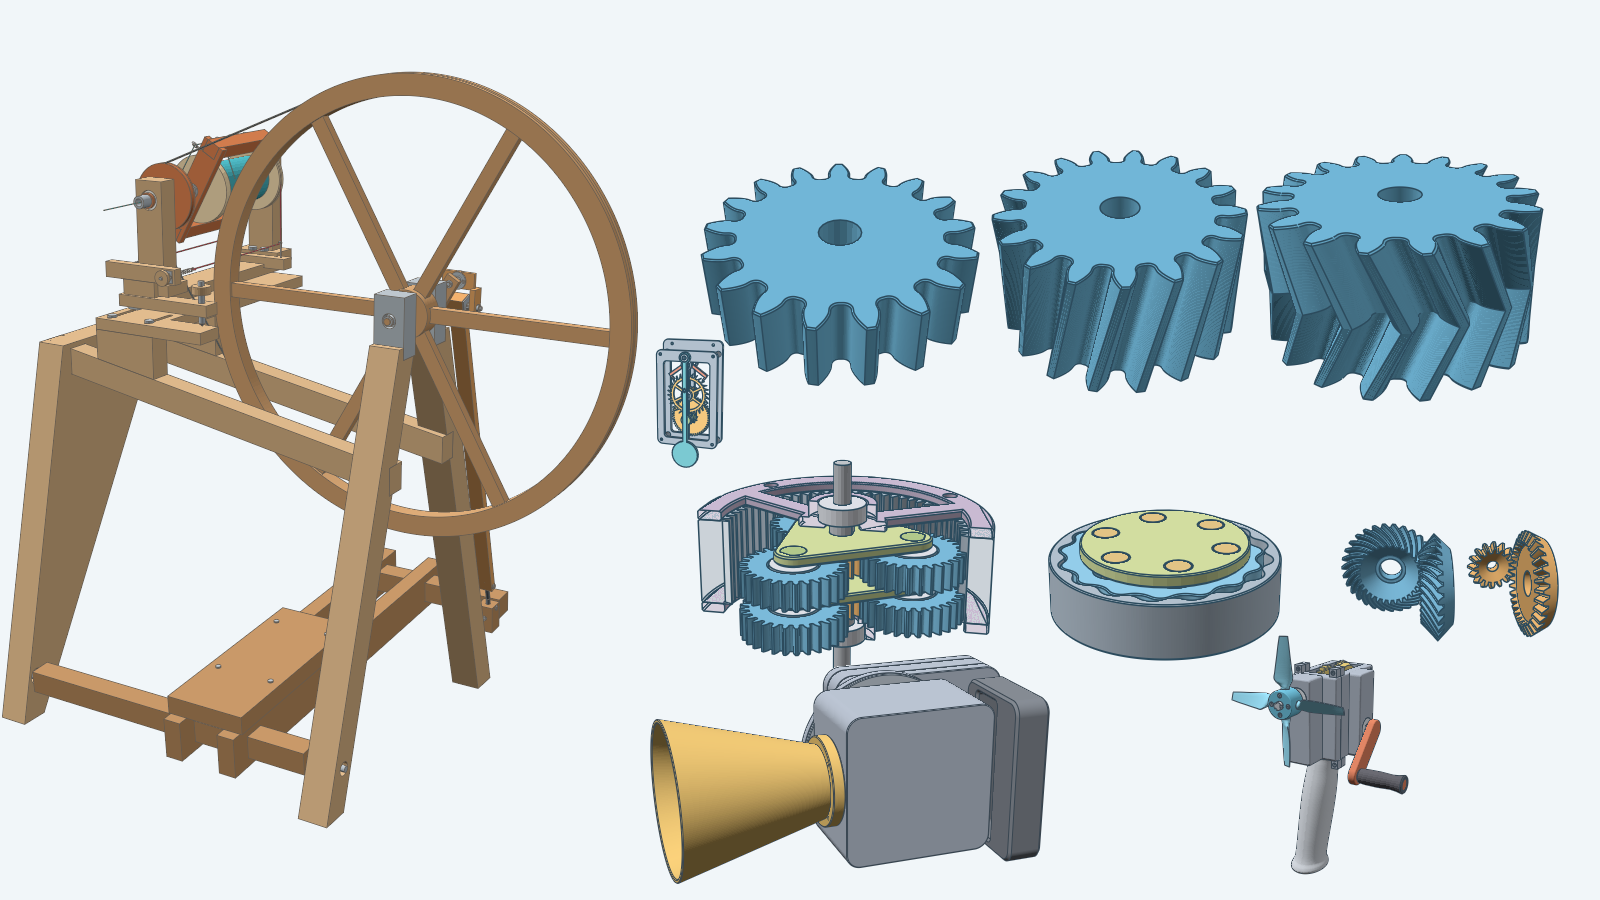
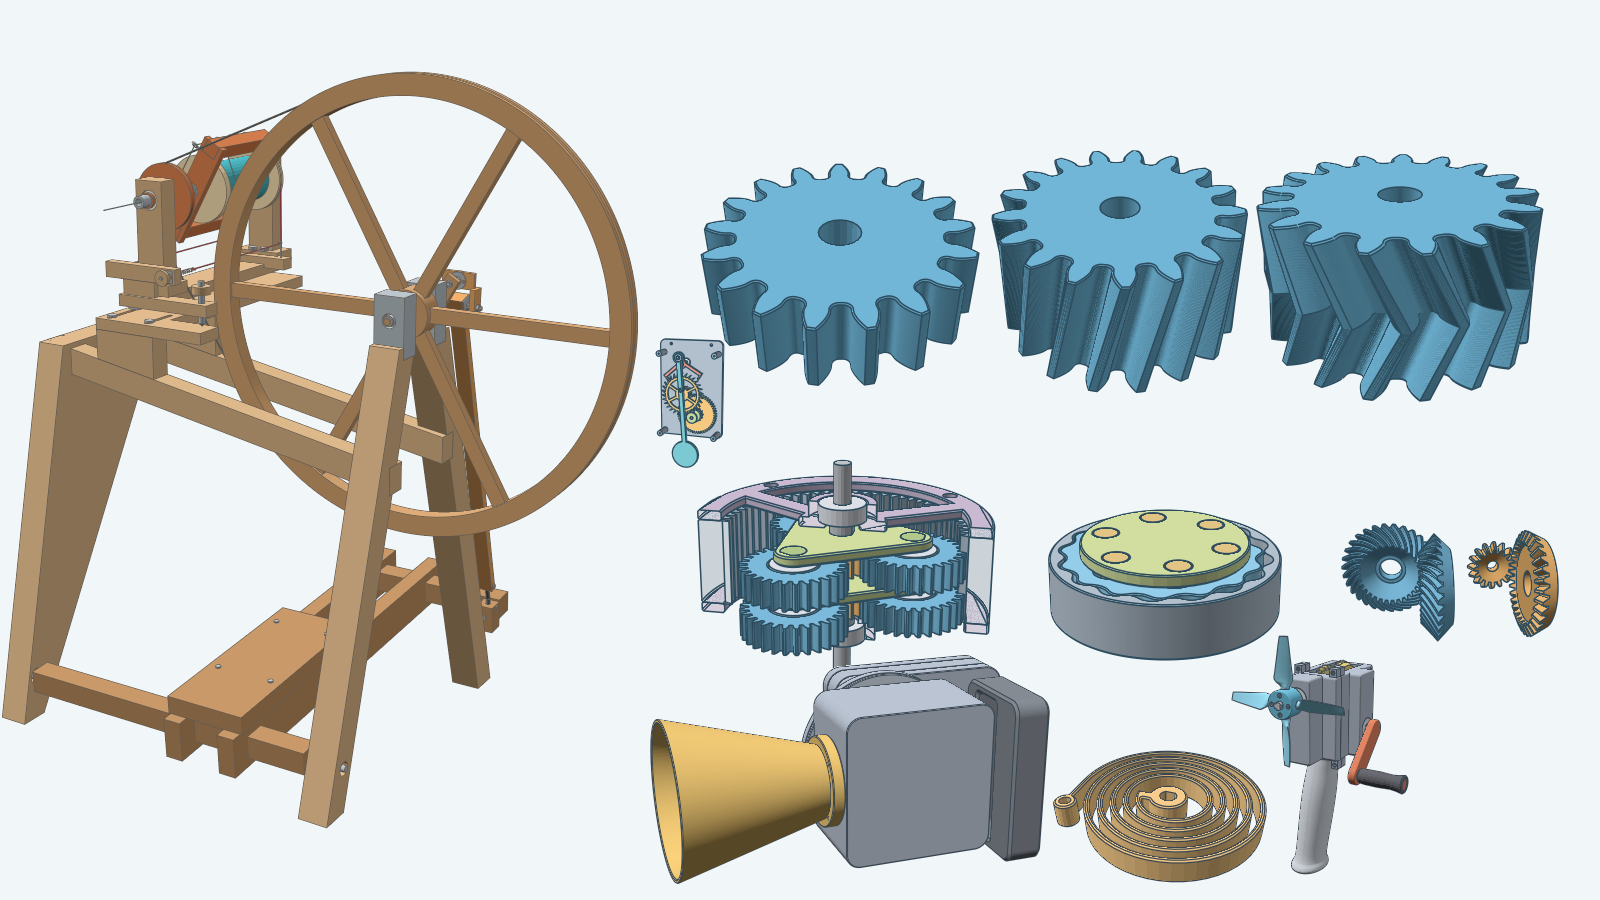
document spiral spring and add it to gallery

Changed region(s): [[0.6562, 0.8089, 0.8125, 0.9956], [0.4062, 0.3733, 0.4688, 0.4978]]

diff --git a/tools/render/gallery.go b/tools/render/gallery.go
@@ -23,7 +23,7 @@ type galleryTile struct {
 
 // galleryTiles puts the spinning wheel on the left, three involute gears across the top, and the planetary
 // gearbox, cycloidal drive, bevel gear pairs, hand-crank fan and hand-crank siren along the bottom.
-// The escapement tile sits in the gap on the left, where none of its pixels meet another model's. The wheel tile is a full 16:9
+// The spiral spring tile sits in the gap between the siren and the fan. The escapement tile sits in the gap on the left, where none of its pixels meet another model's. The wheel tile is a full 16:9
 // scene whose empty margins extend past the canvas edge and under the gear tiles; renderGallery draws only the
 // pixels that differ from the background, so overlapping margins do not hide neighbours.
 var galleryTiles = []galleryTile{
@@ -37,6 +37,7 @@ var galleryTiles = []galleryTile{
 	{handCrankFanHero, image.Rect(1080, 620, 1560, 890)},
 	{handCrankSirenHero, image.Rect(620, 640, 1080, 899)},
 	{escapementHero, image.Rect(560, 330, 820, 476)},
+	{spiralSpringHero, image.Rect(1015, 735, 1305, 898)},
 }
 
 const (

diff --git a/models/spiralspring/README.md b/models/spiralspring/README.md
@@ -1,0 +1,82 @@
+# Spiral spring
+
+![Spiral spring with a D-bore hub and an anchor eye](images/hero.png)
+
+This model is a flat spiral (clock or motor) spring for wind-up mechanisms, printed as one piece. You set
+the relaxed outer diameter, the strip thickness and the strip height. The inner end is a hub with a D bore
+that fits an arbor. The outer end is a straight tail that ends in a round eye, which hooks over a pin in the
+housing.
+
+The model is the spring only. It does not include the arbor, the housing or the pin. It does not simulate
+torque, fatigue or creep.
+
+**Clearance adjustment:** Adjustable. The bore and the eye hole each take a clearance parameter, 0.2 mm at least.
+
+## Parameters
+
+All dimensions are in millimeters. `Params.Validate` rejects values outside the limits with an error that names
+the field.
+
+| Parameter | Default | Limit |
+| --- | --- | --- |
+| `OuterDiameter` | 60 | Above `HubDiameter`; room for one turn |
+| `HubDiameter` | 12 | Radius at least 2.5 times `Thickness`; the wall between bore and hub edge is at least 1.5 |
+| `Thickness` | 1.6 | At least 1.5 |
+| `Height` | 8 | At least twice `Thickness` |
+| `MinGap` | 2.0 | At least 1.0 |
+| `Turns` | 0 | 0 fits as many turns as the gap allows; at most 40 |
+| `ArborDiameter` | 5 | Above 0 |
+| `ArborFlatDepth` | 0.5 | 0 for a round bore, at most a quarter of `ArborDiameter` |
+| `BoreClearance` | 0.2 | At least 0.2 |
+| `AnchorPinDiameter` | 3 | Above 0 |
+| `AnchorClearance` | 0.35 | At least 0.2 |
+| `Placement` | none | A valid frame |
+
+The spring has as many turns as fit with an air gap of at least `MinGap` between turns. The actual gap is
+the radial space left over, spread evenly, so it is usually a little wider than `MinGap`. Set `Turns` to ask
+for fewer turns and a wider gap. The defaults give 5 turns with a 2.4 mm gap.
+
+## Local frame and winding
+
+The origin is on the spring axis in the bottom face, and +Z runs along the axis to the top face. The strip winds
+counter-clockwise outward seen from +Z. To wind the spring, hold the eye and turn the arbor clockwise seen from
++Z. A `Placement` frame that reverses local +Z gives the opposite hand.
+
+The flat of the D bore faces +Y. The eye lies in the -X/-Y quadrant.
+
+## Views
+
+The top view shows the two-center arc spiral, the root with its spoke and the tail running to the eye.
+
+![Top view of the spiral spring](images/top.png)
+
+The low view shows the underside and the cap chamfers.
+
+![Low view of the spiral spring](images/low.png)
+
+The root close-up shows the hub, the spoke that joins it to the first turn and the filleted corners.
+
+![Root of the spiral spring](images/root.png)
+
+## Sizes
+
+From left to right: the default spring (60 mm), a 40 mm spring with 1.5 mm strip, and a 90 mm spring with 2 mm strip.
+
+![Three spiral springs of different sizes](images/sizes.png)
+
+## Printing and material
+
+Print the spring flat with the axis vertical and no supports. Every layer holds the whole spiral, and the strip
+bends in the layer plane along its perimeters, so layer adhesion carries no bending load. At the default
+1.6 mm thickness the strip is four 0.4 mm extrusion lines wide.
+
+Use PETG or nylon. PLA creeps under a constant load and cracks at a lower strain.
+
+`Dimensions.WindStrain` estimates the surface strain when the first turn wraps the hub: 3.1% for the defaults.
+Compare it with your material's yield strain. `Dimensions.ActiveLength` is the centerline length of the strip,
+634.6 mm for the defaults. A strip of material with Young's modulus `E` gives a torque of about
+`M = E * Height * Thickness^3 * theta / (12 * ActiveLength)` for a winding angle `theta` in radians. With
+`E` = 2000 N/mm^2 the defaults give about 8.6 N·mm per radian. Treat it as an estimate and measure a print.
+
+For how to build this spring from Go, see the [developer notes](../../docs/models/spiralspring.md). The
+construction is in [instructions.md](instructions.md) and [steps.md](steps.md).

diff --git a/docs/models/spiralspring.md b/docs/models/spiralspring.md
@@ -1,0 +1,49 @@
+# Spiral spring
+
+The model in `models/spiralspring` constructs a flat spiral spring as one solid.
+
+## Construction and API
+
+`Params` holds the relaxed outer and hub diameters, the strip thickness and height, the smallest gap between
+turns, an optional turn count, the arbor and anchor pin sizes with their clearances, and an optional `Placement`
+frame. `DefaultParams()` returns the defaults listed in the model README. `Params.Validate()` returns the first
+failure in the order that `instructions.md` lists. `Params.Derive()` validates and returns `Dimensions`: the turn
+count, pitch, gap, bore and eye sizes, tail length, fillet radius, `ActiveLength` and `WindStrain`.
+
+`Build(ctx, doc, params)` returns a `Model` with `Body`, the `Profile` sketch and `Dimensions`. It adds exactly one
+body to `doc`. A rejected build leaves `doc` without bodies.
+
+The profile is one fully constrained XY sketch of lines and circular arcs. Its coil is a two-center arc spiral:
+half-turn arcs alternate between the axis and a point half a pitch away, so the strip's two edges are concentric
+arcs and the gap between turns is the same everywhere. Build extrudes the sketch, rounds five vertical concave
+corners with a 3D fillet, chamfers the cap edges as the surface edge finishing rule requires, and applies the
+placement.
+
+A spring whose cap is under 400 mm^2 gets no cap chamfer. A larger one chamfers the outer loop of each cap, and
+the bore loop and eye-hole loop of a cap when their edge run is 20 mm or longer.
+
+## Build and images
+
+```sh
+go test ./models/spiralspring
+go -C tools/render run . -model spiralspring -shot readme -out ../../models/spiralspring/images
+```
+
+The readme shot writes `hero.png`, `index.png`, `top.png`, `low.png`, `root.png` and `sizes.png`. The presets
+`spiralspring/hero`, `top`, `low`, `root` and `sizes` render one view each.
+
+## Verification
+
+Tests check the derived dimensions, validation, and, for the default and six other parameter branches, the
+profile's full constraint, the bounds, the face count and the volume. They mesh every branch but the 40-turn one
+with `VerifyAll`. They read the bore and eye-hole radii from the built faces and require the 0.2 mm and 0.35 mm
+fit clearances. They slice the mesh at mid-height and require every air gap between turns to equal the derived gap
+and every wall to equal the thickness, within the mesh tolerance.
+
+## Known decad limit
+
+After the cap chamfer, `Mesh.VolumeVerified()` is false. Decad publishes no occupied-volume proof for a chamfer
+of a cap loop with circular walls. `BoundaryVerified()` stays true, and an unchamfered spring verifies both.
+The chamfered mesh's `Bound()` is about 0.8 mm at a requested 0.02 mm, from the chamfer bands. The gap test
+slices the walls at mid-height, where they are vertical cylinders and planes, and allows the 0.02 mm chord
+tolerance plus 0.001 mm instead of the certified bound.

diff --git a/docs/rendering.md b/docs/rendering.md
@@ -36,6 +36,11 @@ and `side.png` (looking at the outer surface) of the 608-2RS at the same size.
 The `head`, `side`, `underside` and `lengths` presets show other angles and all six standard lengths.
 The `readme` shot writes all of them.
 
+`spiralspring/hero` renders the default spring lying flat with its axis up. The `top`, `low`, `root` and `sizes`
+presets show the spiral from above, the underside, a close-up of the hub and spoke, and three springs of
+different sizes. The `readme` shot writes all of them and the index image:
+`go -C tools/render run . -model spiralspring -shot readme -out ../../models/spiralspring/images`.
+
 `m2nut/hero` renders the M2 nut. The `top`, `side`, `low` and `withbolt` presets show other angles and the nut on an M2x10 bolt.
 The `readme` shot writes all of them.
 
@@ -218,10 +223,10 @@ The `gallery/hero` preset does not include the ball bearing or screw gear.
 
 The `gallery/hero` preset writes the repository's hero image, `docs/images/gallery.png`. It renders the hero
 scenes of the spinning wheel, the spur, helical and herringbone gears, the planetary gearbox, the cycloidal
-drive, the bevel gear pair, the hand-crank fan, the hand-crank siren and the Graham escapement one after another. It places each at its own size on a
-1600 × 900 pixel canvas (the wheel on the left, the gears and the fan on the right, the escapement in the gap at the middle left), and keeps
-only the pixels that differ from the background where the tiles overlap. The escapement tile's pixels meet no other
-model's. Building all ten models takes about seven minutes plus the wheel build:
+drive, the bevel gear pair, the hand-crank fan, the hand-crank siren, the Graham escapement and the spiral spring one after another. It places each at its own size on a
+1600 × 900 pixel canvas (the wheel on the left, the gears and the fan on the right, the escapement in the gap at the middle left, the spiral spring in the gap between the siren and the fan), and keeps
+only the pixels that differ from the background where the tiles overlap. The escapement and spiral spring tiles' pixels meet no other
+model's. Building all eleven models takes about seven minutes plus the wheel build:
 
 ```sh
 go -C tools/render run . -model gallery -shot hero -out ../../docs/images/gallery.png

diff --git a/README.md b/README.md
@@ -1,6 +1,6 @@
 # decad gallery
 
-![A spinning wheel, a hand-crank fan, a hand-crank siren and a Graham escapement beside spur, helical, herringbone, planetary, cycloidal and bevel gears](docs/images/gallery.png)
+![A spinning wheel, a hand-crank fan, a hand-crank siren, a Graham escapement and a spiral spring beside spur, helical, herringbone, planetary, cycloidal and bevel gears](docs/images/gallery.png)
 
 A gallery of parametric 3D shapes, patterns, and assemblies built with
 [decad](https://github.com/lestrrat-3d/decad). Each model is a solid body whose dimensions come from
@@ -14,7 +14,7 @@ planetary gearbox. They also include a [treadle spinning wheel](models/spinningw
 a [hand-crank fan](models/handcrankfan/) driven through spur and bevel gears,
 a [hand-crank siren](models/handcranksiren/) with a two-stage spur step-up,
 a [Graham escapement](models/escapement/) with a weight drive, a crutch and a pendulum, 608-2RS and 605ZZ bearing
-envelopes, and a [pin ring](models/pinring/) assembly aid that holds a pin in place during assembly.
+envelopes, a [spiral spring](models/spiralspring/) with a D-bore hub and an anchor eye, and a [pin ring](models/pinring/) assembly aid that holds a pin in place during assembly.
 Each model's page shows rendered images and lists the inputs you can change.
 
 ## For developers

diff --git a/models/README.md b/models/README.md
@@ -16,6 +16,7 @@
 | [Screw gear](screwgear/) | <img src="screwgear/images/index.png" alt="Two twisted ribbon gears in a sleeve" width="240"> | Two twisted toothed ribbons that run through a windowed sleeve and move one another one tooth for one tooth. | Adjustable |
 | [M2 bolt](m2bolt/) | <img src="m2bolt/images/index.png" alt="M2 socket head cap screw" width="240"> | An M2 socket head cap screw with a hex socket and a length you choose. | Nominal |
 | [M2 nut](m2nut/) | <img src="m2nut/images/index.png" alt="M2 hex nut" width="240"> | An M2 hex nut that fits the M2 bolt. | Nominal |
+| [Spiral spring](spiralspring/) | <img src="spiralspring/images/index.png" alt="Spiral spring with a D-bore hub and an anchor eye" width="240"> | A flat spiral (clock) spring for wind-up mechanisms, with a D-bore hub and an anchor eye, sized by its relaxed outer diameter. | Adjustable |
 | [Pin ring](pinring/) | <img src="pinring/images/index.png" alt="Flat pin ring" width="240"> | An assembly aid (jig): a plain flat ring that sits on a pin to hold it in place while you assemble. | Adjustable |
 
 Clearance adjustment labels follow the [model fit rules](../docs/model-pipeline.md#part-clearances).
